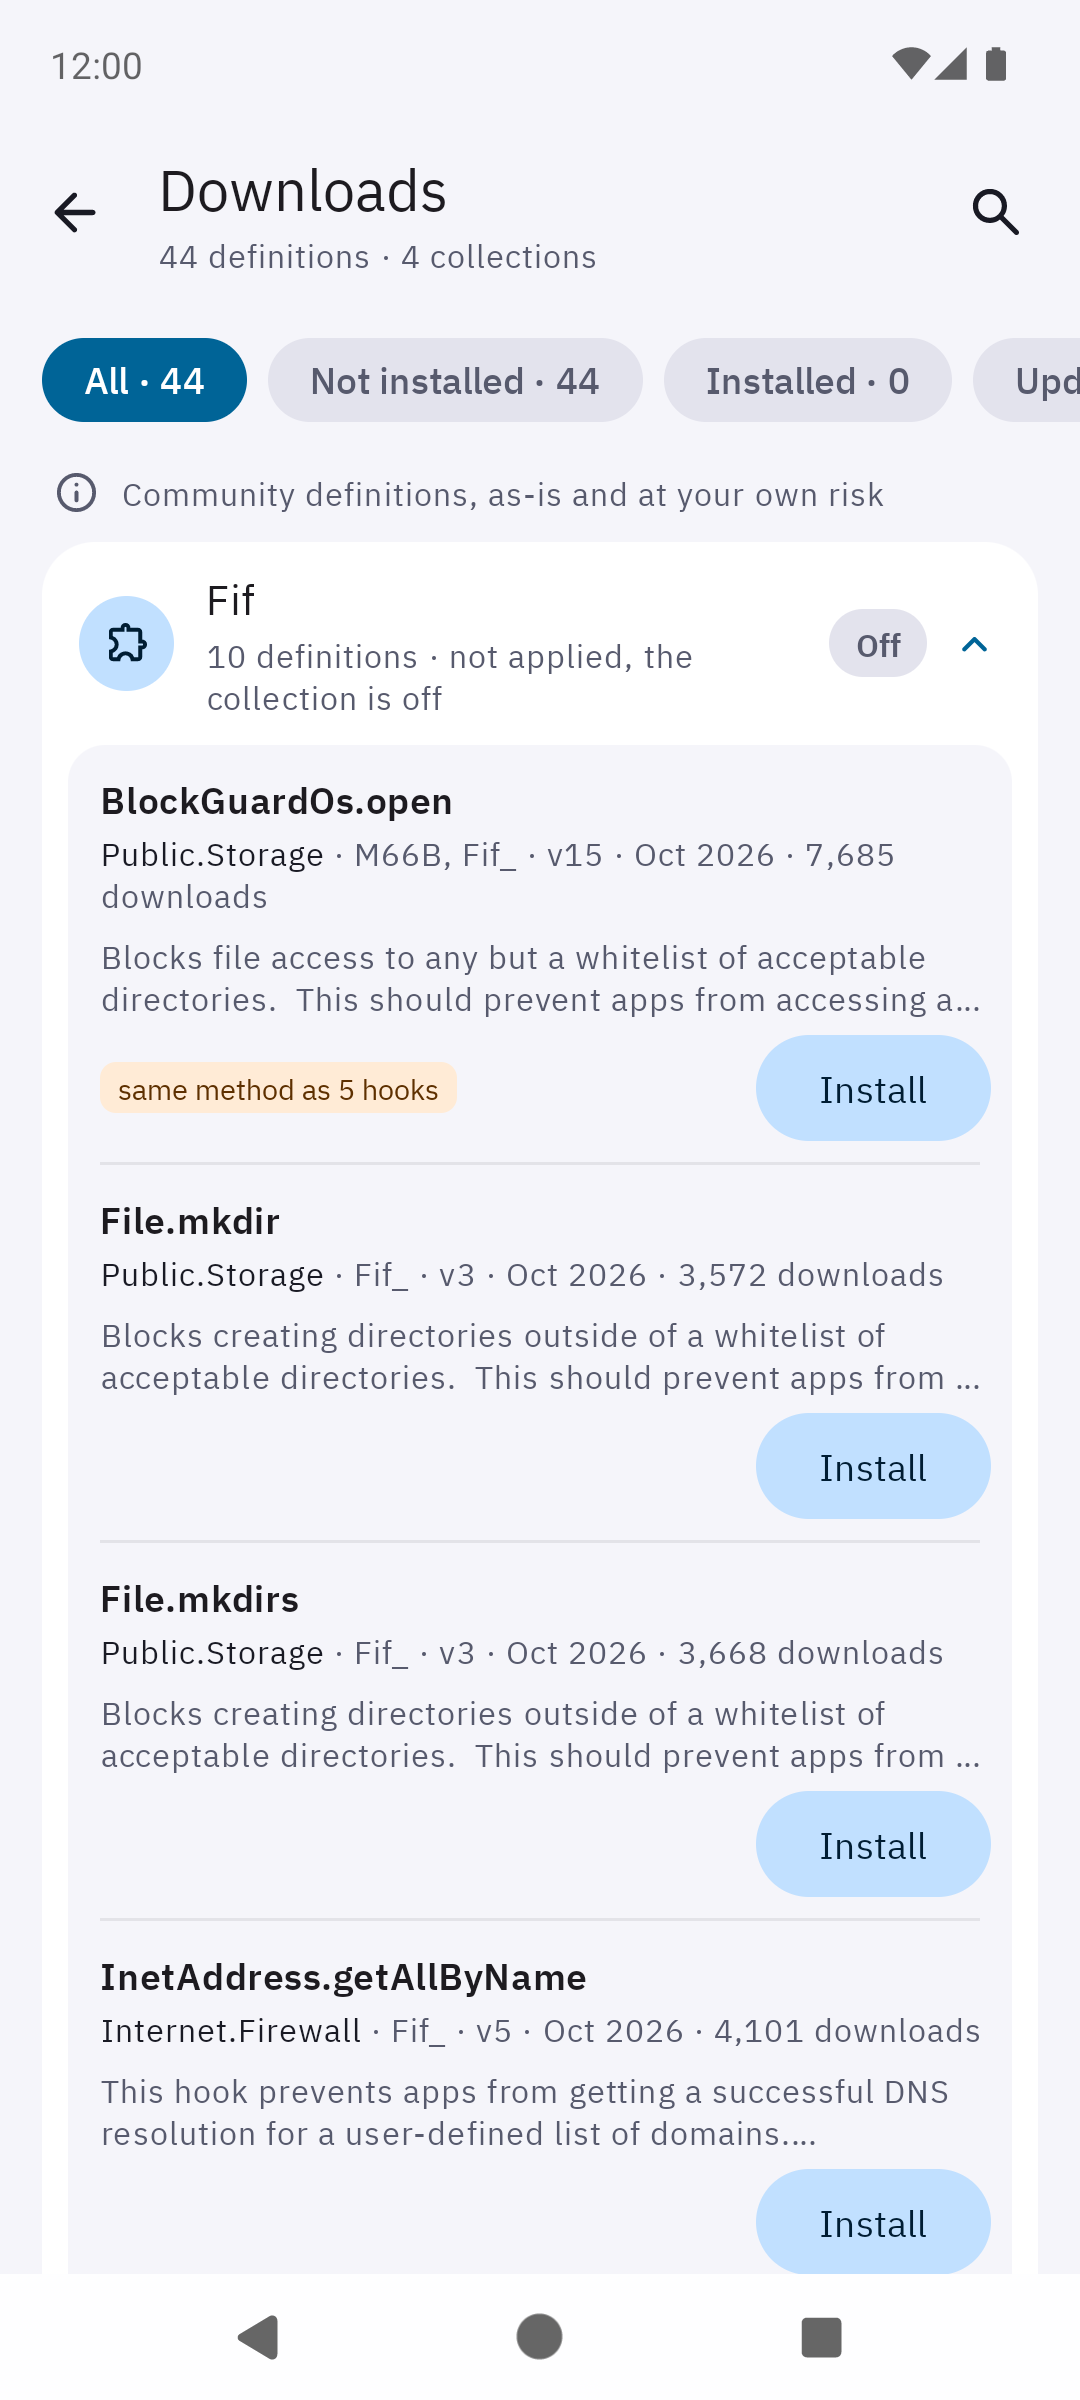
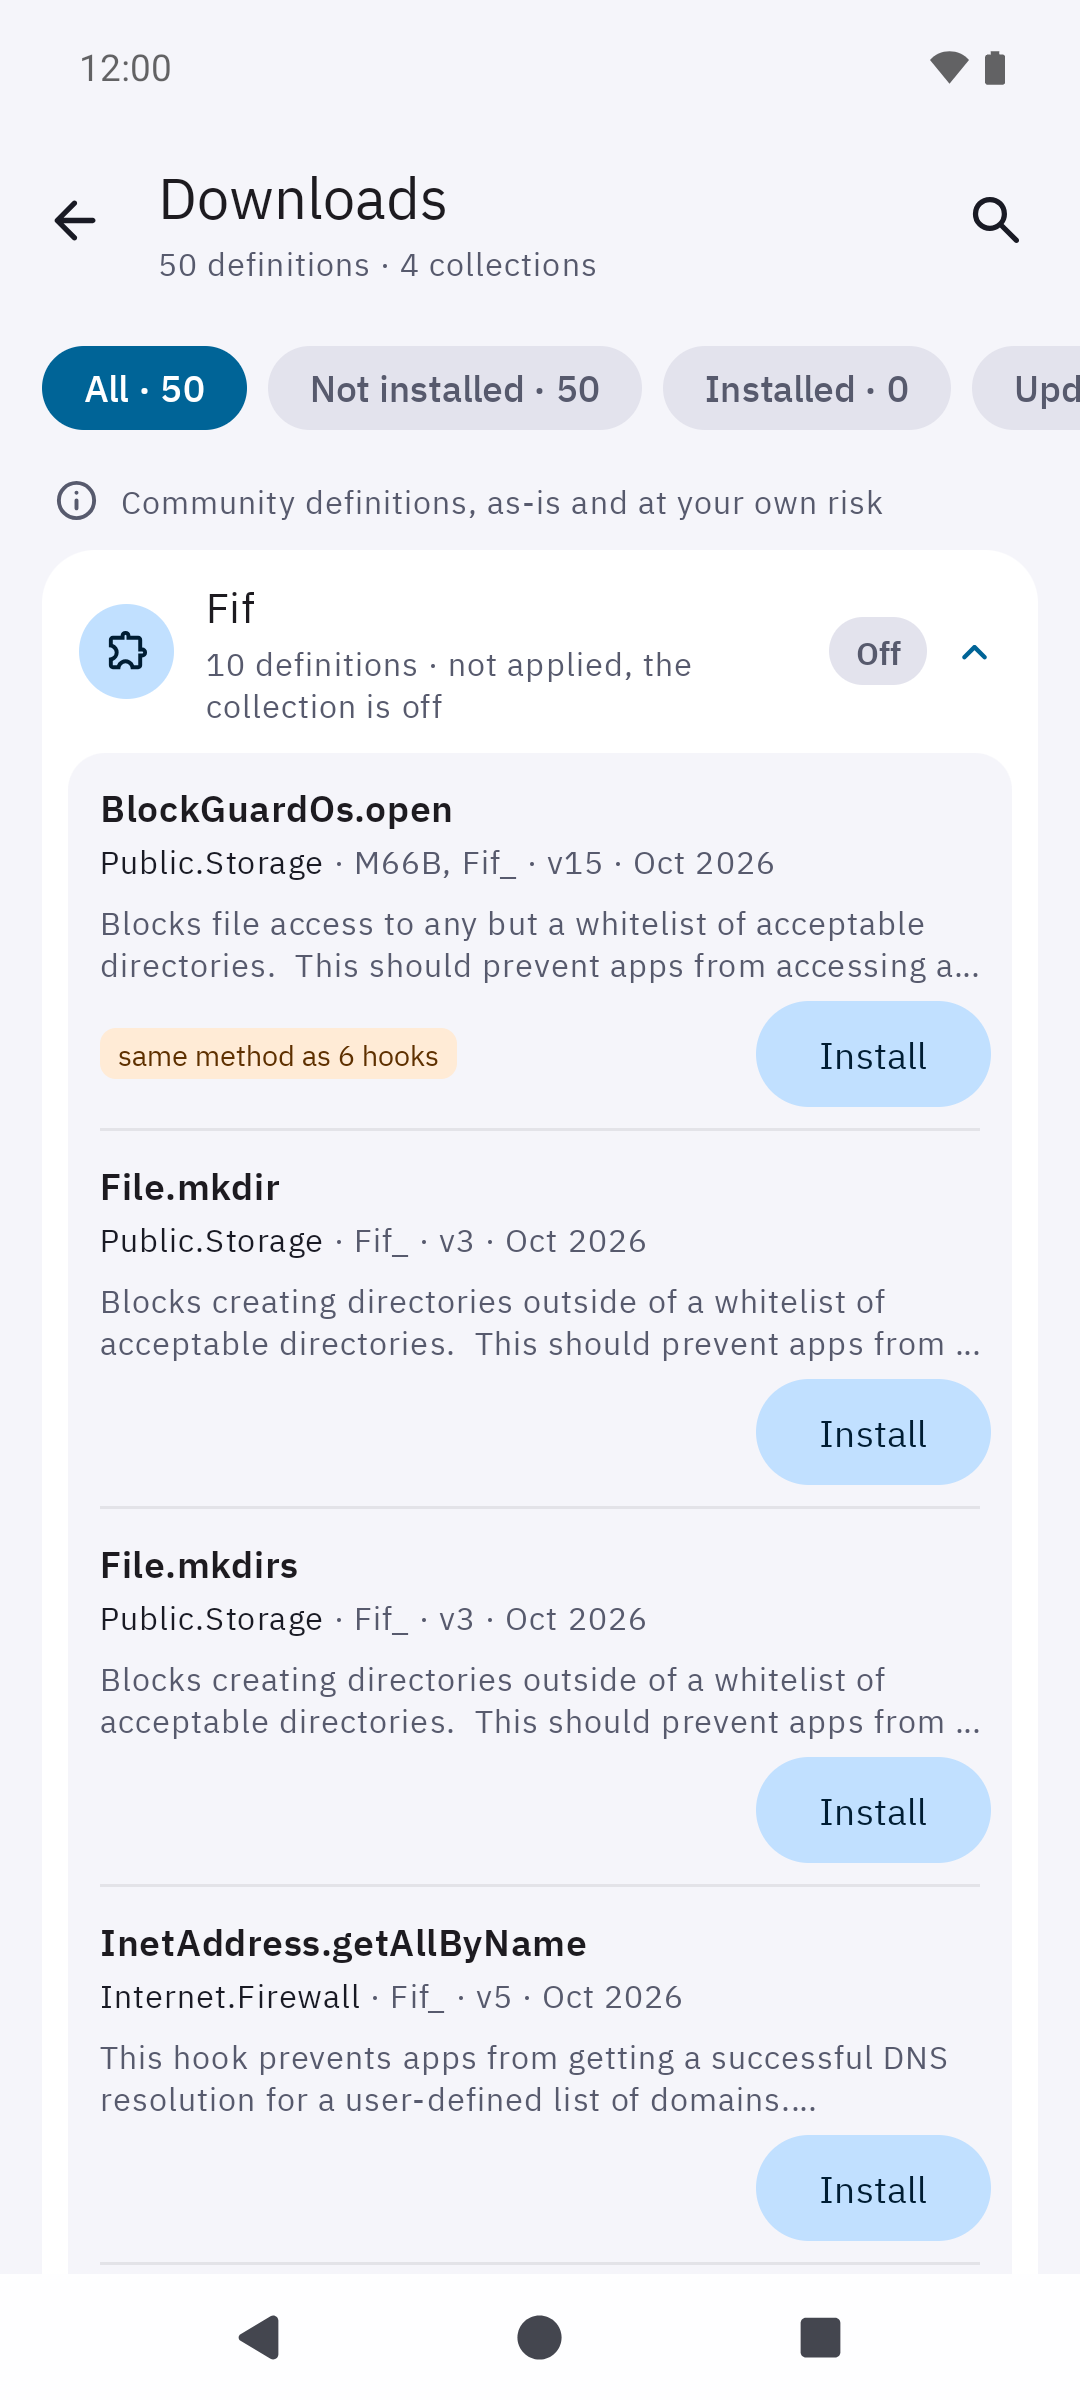
Downloads: no download counts
The counts were those of XPrivacyLua Pro's server and never changed, since Downloads is part of the app; the newer definitions showed 0. The list has the id and the time of the update only.

diff --git a/app/src/main/java/eu/faircode/xlua/ActivityDownloads.java b/app/src/main/java/eu/faircode/xlua/ActivityDownloads.java
@@ -48,7 +48,6 @@ import org.json.JSONException;
 import org.json.JSONObject;
 
 import java.io.InputStream;
-import java.text.NumberFormat;
 import java.util.ArrayList;
 import java.util.Arrays;
 import java.util.Collections;
@@ -83,7 +82,6 @@ public class ActivityDownloads extends ActivityBase {
         int version;
         String description;
         long updated;
-        int downloads;
         String className;
         String methodName;
         String[] parameterTypes;
@@ -178,7 +176,7 @@ public class ActivityDownloads extends ActivityBase {
     private void load() {
         final Context context = getApplicationContext();
         run(TAG, () -> {
-            // The list has the time of the update and the downloads, the definition files, as installed, the rest
+            // The list has the time of the update, the definition files, as installed, the rest
             List<Entry> entries = new ArrayList<>();
             JSONArray jlist = new JSONObject(readAsset(context, REPO + "list.json")).getJSONArray("list");
             for (int i = 0; i < jlist.length(); i++) {
@@ -186,7 +184,6 @@ public class ActivityDownloads extends ActivityBase {
                 Entry entry = new Entry();
                 entry.id = jentry.getInt("id");
                 entry.updated = jentry.optLong("updated") * 1000L;
-                entry.downloads = jentry.optInt("downloads");
 
                 JSONObject jhook = readDefinition(context, entry);
                 entry.collection = jhook.getString("collection");
@@ -606,9 +603,7 @@ public class ActivityDownloads extends ActivityBase {
                     0, meta.length(), Spanned.SPAN_EXCLUSIVE_EXCLUSIVE);
             meta.append(" · ").append(getString(R.string.title_download_meta, entry.author, entry.version,
                     DateUtils.formatDateTime(context, entry.updated, DateUtils.FORMAT_SHOW_DATE | DateUtils.FORMAT_SHOW_YEAR |
-                            DateUtils.FORMAT_NO_MONTH_DAY | DateUtils.FORMAT_ABBREV_MONTH),
-                    getResources().getQuantityString(R.plurals.title_downloads_count, entry.downloads,
-                            NumberFormat.getIntegerInstance().format(entry.downloads))));
+                            DateUtils.FORMAT_NO_MONTH_DAY | DateUtils.FORMAT_ABBREV_MONTH)));
             h.tvMeta.setText(meta);
 
             boolean hasDescription = !TextUtils.isEmpty(entry.description);

diff --git a/app/src/test/java/eu/faircode/xlua/HookDefinitionsTest.java b/app/src/test/java/eu/faircode/xlua/HookDefinitionsTest.java
@@ -307,14 +307,14 @@ public class HookDefinitionsTest {
     }
 
     // The definitions offered by Downloads (repo/), which are installed as they are, see Data.putCustom.
-    // The list has the id, the time of the last update (seconds) and the number of downloads of each definition,
+    // The list has the id and the time of the last update (seconds) of each definition,
     // the attributes Downloads shows otherwise, like the name and version, are those of the definition,
     // see ActivityDownloads.load
     @Test
     public void repositoryIsValid() throws Exception {
         File repo = new File("../repo");
         JSONArray list = new JSONObject(readLikeAndroid(new File(repo, "list.json"))).getJSONArray("list");
-        Set<String> attributes = new HashSet<>(Arrays.asList("id", "updated", "downloads"));
+        Set<String> attributes = new HashSet<>(Arrays.asList("id", "updated"));
         Set<String> listed = new HashSet<>();
         Set<String> ids = new HashSet<>();
         for (int i = 0; i < list.length(); i++) {
@@ -323,7 +323,6 @@ public class HookDefinitionsTest {
             assertEquals(file.getName() + " list attributes", attributes, keys(entry));
             assertTrue(file.getName() + " listed twice", listed.add(file.getName()));
             assertTrue(file.getName() + " updated", entry.getLong("updated") > 0);
-            assertTrue(file.getName() + " downloads", entry.getInt("downloads") >= 0);
             assertTrue("Missing " + file, file.exists());
 
             JSONObject hook = new JSONObject(readLikeAndroid(file));

diff --git a/docs/DEFINE.md b/docs/DEFINE.md
@@ -266,7 +266,7 @@ Sharing
 With *Downloads* on the *Hooks* tab you can install hook definitions shared by others, which are part of the app (folder *repo*).
 Downloads offers definitions about privacy which Doppel does not have built in.
 To share a definition, export it in the hook editor and offer it as a pull request,
-as *repo/hook_N.json* with an entry with the id N, the time of the update (seconds since 1970) and 0 downloads in *repo/list.json*.
+as *repo/hook_N.json* with an entry with the id N, and the time of the update (seconds since 1970) in *repo/list.json*.
 A changed definition needs a higher *version* and a new time of the update, so Downloads offers the update.
 
 If you have questions, you can ask them in an [issue](https://github.com/akano12/Doppel/issues).
